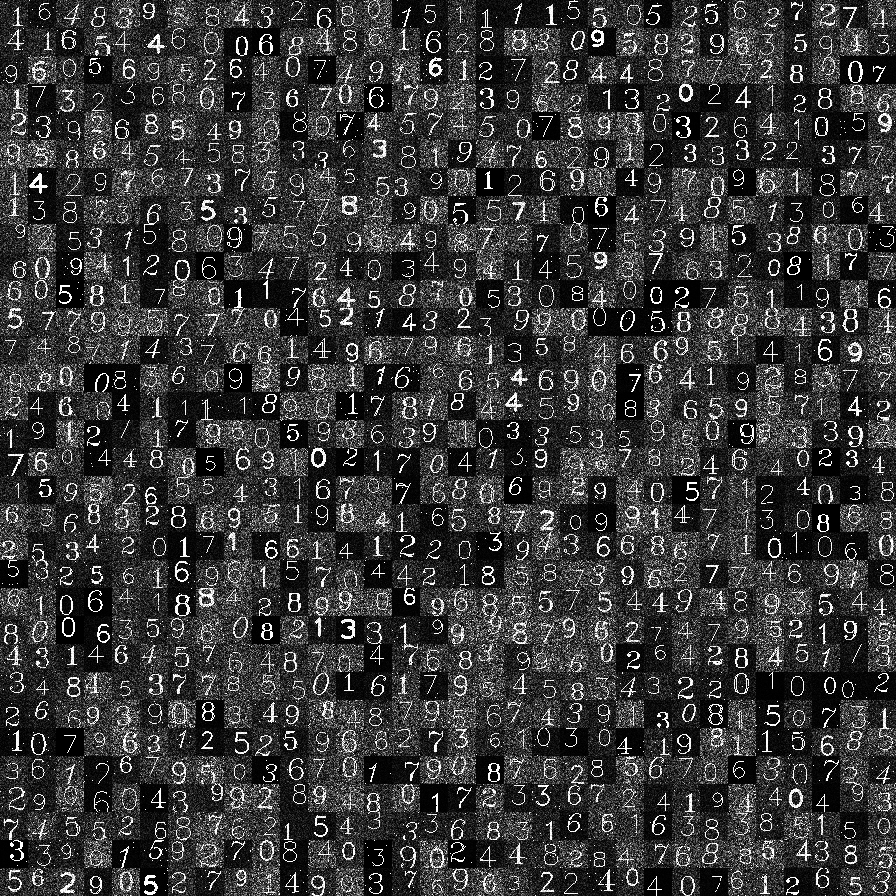
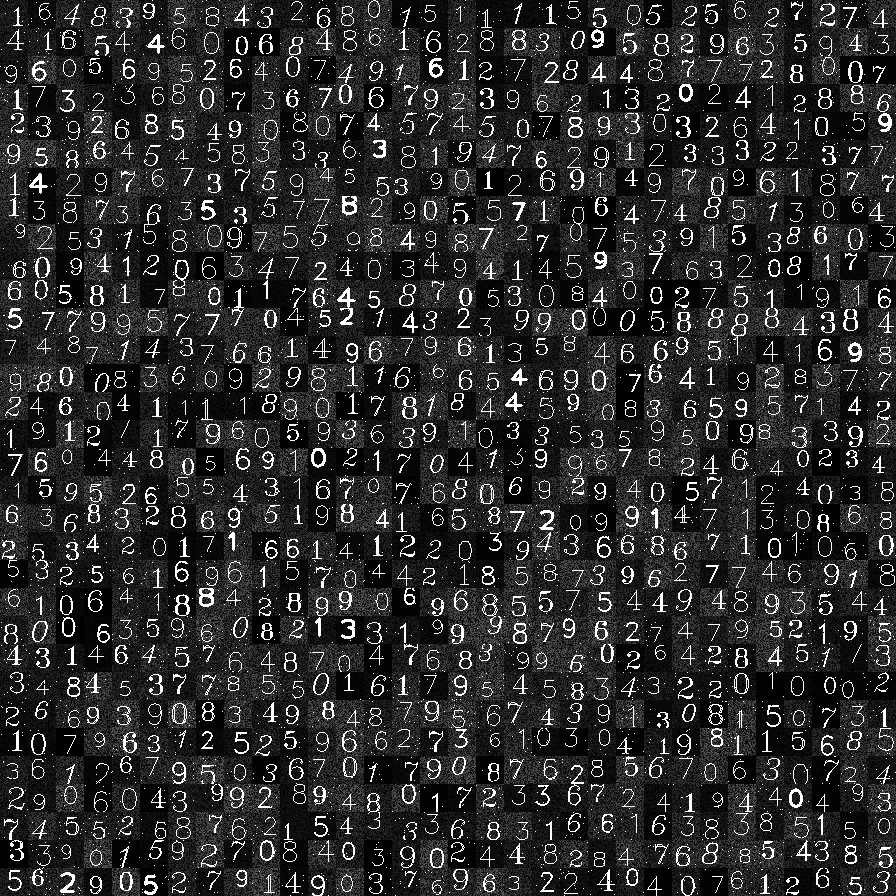
add option to generate a fully compatible MNIST dataset format

diff --git a/mnist_render.py b/mnist_render.py
@@ -92,12 +92,12 @@ def create_label_img(res, inv_colors, min_thick_scale, max_thick_scale,
 
   # Available system (OpenCV) fonts
   fonts = [cv2.FONT_HERSHEY_SIMPLEX,
-  	  	   cv2.FONT_HERSHEY_PLAIN,
-  	  	   cv2.FONT_HERSHEY_DUPLEX,
-  	  	   cv2.FONT_HERSHEY_COMPLEX,
-  	  	   cv2.FONT_HERSHEY_TRIPLEX,
-  	  	   cv2.FONT_HERSHEY_COMPLEX_SMALL,
-  	  	   cv2.FONT_HERSHEY_SCRIPT_SIMPLEX,
+           cv2.FONT_HERSHEY_PLAIN,
+           cv2.FONT_HERSHEY_DUPLEX,
+           cv2.FONT_HERSHEY_COMPLEX,
+           cv2.FONT_HERSHEY_TRIPLEX,
+           cv2.FONT_HERSHEY_COMPLEX_SMALL,
+           cv2.FONT_HERSHEY_SCRIPT_SIMPLEX,
            cv2.FONT_HERSHEY_SCRIPT_COMPLEX]
 
   # Choose a random font and label
@@ -181,7 +181,7 @@ def distort_img(img, distortion, seed):
   np.random.seed(seed)
 
   # Generate a random transformation matrix (identity matrix + some noise)
-  mat = np.identity(3) + 0.001 * distortion * np.random.randn(3, 3)
+  mat = np.identity(3) + 0.001 * distortion * (2 * np.random.rand(3, 3) - 1)
 
   # Apply it
   return cv2.warpPerspective(img, mat, (img.shape[0], img.shape[1]),
@@ -208,11 +208,10 @@ def add_gnoise_img(img, gnoise, seed):
   # Initialize the seed
   if seed < 0:
     seed = int(time.time())
-  cv2.setRNGSeed(seed)
+  np.random.seed(seed)
 
   # Noise image
-  noise = np.zeros(img.shape, img.dtype)
-  cv2.randn(noise, 0, int(gnoise * 0xFF))
+  noise = np.random.rand(*img.shape) * gnoise * 0xFF
 
   # Apply gaussian noise
   return img + noise
@@ -238,11 +237,10 @@ def add_spnoise_img(img, spnoise, seed):
   # Initialize the seed
   if seed < 0:
     seed = int(time.time())
-  cv2.setRNGSeed(seed)
+  np.random.seed(seed)
 
-  # Noise image
-  noise = np.zeros(img.shape, img.dtype)
-  cv2.randu(noise, 0, 0xFF)
+  # Noise image and threshold
+  noise     = np.random.rand(*img.shape) * 0xFF
   threshold = spnoise * 0.1 * 0xFF
 
   # Apply salt-pepper noise
@@ -316,11 +314,25 @@ def render_img(res, inv_colors, min_thick_scale, max_thick_scale,
   return (img8, label)
 
 
+def int32(val):
+  '''
+  Convert an integer value to a 32-bit bitarray.
+  
+  Args:
+    val: integer value
+
+  Returns:
+    32-bit bitarray
+  '''
+
+  return bytearray([(val >> i & 0xFF) for i in (24, 16, 8, 0)])
+
+
 def render(num, res, inv_colors, min_thick_scale, max_thick_scale,
            min_size_scale, max_size_scale, min_distortion, max_distortion,
            min_gaussian_noise, max_gaussian_noise, min_salt_pepper_noise,
            max_salt_pepper_noise, placement, max_it, seed, format, out,
-           concatenate):
+           prefix, concatenate, dataset):
   '''
   Render some images.
 
@@ -343,7 +355,9 @@ def render(num, res, inv_colors, min_thick_scale, max_thick_scale,
     seed                 : random seed (< 0: random value based on system time)
     format               : output file format
     out                  : output directory
+    prefix               : file prefix
     concatenate          : concatenate all the images
+    dataset              : create a dataset
   '''
 
   if format not in img_formats():
@@ -360,11 +374,32 @@ def render(num, res, inv_colors, min_thick_scale, max_thick_scale,
   if num < 1:
     num = 1
 
+  if not prefix:
+    prefix = "mnist"
+
+  if dataset:
+    concatenate = False
+
   if concatenate:
     bigmat_cols = int(math.floor(math.sqrt(num) + 0.5))
     col_imgs    = []
     row_imgs    = []
     shape       = None
+
+  if dataset:
+    image_dataset_path = os.path.join(out, "%s-images-idx3-ubyte" % prefix)
+    label_dataset_path = os.path.join(out, "%s-labels-idx1-ubyte" % prefix)
+    image_dataset_file = open(image_dataset_path, "wb")
+    label_dataset_file = open(label_dataset_path, "wb")
+    # Magic number
+    image_dataset_file.write(int32(0x803))
+    label_dataset_file.write(int32(0x801))
+    # Number of images
+    image_dataset_file.write(int32(num))
+    label_dataset_file.write(int32(num))
+    # Image width and height
+    image_dataset_file.write(int32(res))
+    image_dataset_file.write(int32(res))
 
   for i in range(num):
     # Render the image
@@ -374,6 +409,11 @@ def render(num, res, inv_colors, min_thick_scale, max_thick_scale,
                               min_gaussian_noise, max_gaussian_noise,
                               min_salt_pepper_noise, max_salt_pepper_noise,
                               placement, max_it, seed + i)
+    if dataset:
+      img.tofile(image_dataset_file)
+      label_dataset_file.write(bytearray([label]))
+      continue
+
     if concatenate:
       # Append images to the list of column images
       if not shape:
@@ -387,12 +427,13 @@ def render(num, res, inv_colors, min_thick_scale, max_thick_scale,
         # append to result images to the list of row images
         row_imgs.append(np.hstack(col_imgs))
         col_imgs = []
-    else:
-      # No concatenate: just save the image
-      img_name = "mnist_%06d.%s" % (i, format)
-      img_path = os.path.join(out, img_name)
-      if not cv2.imwrite(img_path, img):
-        raise Exception("Can't create image file '%s'" % img_path)
+      continue
+
+    # Just save the image
+    img_name = "%s_%06d.%s" % (prefix, i, format)
+    img_path = os.path.join(out, img_name)
+    if not cv2.imwrite(img_path, img):
+      raise Exception("Can't create image file '%s'" % img_path)
 
   if concatenate:
     if len(col_imgs):
@@ -403,9 +444,13 @@ def render(num, res, inv_colors, min_thick_scale, max_thick_scale,
     # Stack all the row images
     img = np.vstack(row_imgs)
     # Save the final image
-    img_path = os.path.join(out, "mnist.%s" % format)
+    img_path = os.path.join(out, "%s.%s" % (prefix, format))
     if not cv2.imwrite(img_path, img):
       raise Exception("Can't create image file '%s'" % img_path)
+
+  if dataset:
+    image_dataset_file.close()
+    label_dataset_file.close()
 
 
 def main():
@@ -415,53 +460,56 @@ def main():
 
   # Arguments parser
   parser = argparse.ArgumentParser(description = "MNIST Dataset Renderer.")
-  parser.add_argument("-out"   , help = "Output directory",
-                                 type = str, required = True)
-  parser.add_argument("-num"   , help = "Number of images to render",
-                                 type = int, default = 1)
-  parser.add_argument("-res"   , help = "Resolution of the rendered images",
-                                 type = int, default = 28)
-  parser.add_argument("-inv"   , help = "Inverse the colors",
-                                 action = "store_true")
-  parser.add_argument("-tmin"  , help = "Min thickness scale",
-                                 type = float, default = 0.8)
-  parser.add_argument("-tmax"  , help = "Max thickness scale",
-                                 type = float, default = 1.2)
-  parser.add_argument("-fmin"  , help = "Min font scale",
-                                 type = float, default = 0.6)
-  parser.add_argument("-fmax"  , help = "Max font scale",
-                                 type = float, default = 0.8)
-  parser.add_argument("-gnmin" , help = "Min gaussian noise",
-                                 type = float, default = 0.0)
-  parser.add_argument("-gnmax" , help = "Max gaussian noise",
-                                 type = float, default = 0.0)
-  parser.add_argument("-spnmin", help = "Min salt-pepper noise",
-                                 type = float, default = 0.0)
-  parser.add_argument("-spnmax", help = "Max salt-pepper noise",
-                                 type = float, default = 0.0)
-  parser.add_argument("-dmin"  , help = "Min distortion",
-                                 type = float, default = 0.0)
-  parser.add_argument("-dmax"  , help = "Max distortion",
-                                 type = float, default = 0.0)
-  parser.add_argument("-place" , help = "Placement",
-                                 type = float, default = 0.0)
-  parser.add_argument("-it"    , help = "Max number of iterations",
-                                 type = int, default = 10)
-  parser.add_argument("-seed"  , help = "Random seed",
-                                 type = int, default = -1)
-  parser.add_argument("-format", help = "Image file format (%s)" %
-                                 ", ".join(img_formats()),
-                                 type = str, default = img_default_format())
-  parser.add_argument("-concat", help = "Concatenate all the images into one",
-                                 action = "store_true")
+  parser.add_argument("-out"    , help = "Output directory",
+                                  type = str, required = True)
+  parser.add_argument("-num"    , help = "Number of images to render",
+                                  type = int, default = 1)
+  parser.add_argument("-res"    , help = "Resolution of the rendered images",
+                                  type = int, default = 28)
+  parser.add_argument("-inv"    , help = "Inverse the colors",
+                                  action = "store_true")
+  parser.add_argument("-tmin"   , help = "Min thickness scale",
+                                  type = float, default = 0.8)
+  parser.add_argument("-tmax"   , help = "Max thickness scale",
+                                  type = float, default = 1.2)
+  parser.add_argument("-fmin"   , help = "Min font scale",
+                                  type = float, default = 0.6)
+  parser.add_argument("-fmax"   , help = "Max font scale",
+                                  type = float, default = 0.8)
+  parser.add_argument("-gnmin"  , help = "Min gaussian noise",
+                                  type = float, default = 0.0)
+  parser.add_argument("-gnmax"  , help = "Max gaussian noise",
+                                  type = float, default = 0.0)
+  parser.add_argument("-spnmin" , help = "Min salt-pepper noise",
+                                  type = float, default = 0.0)
+  parser.add_argument("-spnmax" , help = "Max salt-pepper noise",
+                                  type = float, default = 0.0)
+  parser.add_argument("-dmin"   , help = "Min distortion",
+                                  type = float, default = 0.0)
+  parser.add_argument("-dmax"   , help = "Max distortion",
+                                  type = float, default = 0.0)
+  parser.add_argument("-place"  , help = "Placement",
+                                  type = float, default = 0.0)
+  parser.add_argument("-it"     , help = "Max number of iterations",
+                                  type = int, default = 10)
+  parser.add_argument("-seed"   , help = "Random seed",
+                                  type = int, default = -1)
+  parser.add_argument("-format" , help = "Image file format (%s)" %
+                                  ", ".join(img_formats()),
+                                  type = str, default = img_default_format())
+  parser.add_argument("-prefix" , help = "Filename prefix", default = "mnist")
+  parser.add_argument("-concat" , help = "Concatenate all the images into one",
+                                  action = "store_true")
+  parser.add_argument("-dataset", help = "Create a MNIST dataset",
+                                  action = "store_true")
 
   args = parser.parse_args()
 
   # Call the renderer
   render(args.num, args.res, args.inv, args.tmin, args.tmax, args.fmin,
-         args.fmax, args.dmin, args.dmax, args.gnmin, args.gnmax, args.spnmin,
-         args.spnmax, args.place, args.it, args.seed, args.format,
-         args.out, args.concat)
+         args.fmax, args.dmin, args.dmax, args.gnmin, args.gnmax,
+         args.spnmin, args.spnmax, args.place, args.it, args.seed,
+         args.format, args.out, args.prefix, args.concat, args.dataset)
 
 
 if __name__ == "__main__":

diff --git a/README.md b/README.md
@@ -1,24 +1,22 @@
-MNIST Dataset Renderer
-======================
+# MNIST Dataset Renderer
 
+Release 1.0 (October 2016)
 
-### Info
+## Info
 
 This script generates N random single digit images.
 The digit in each image is randomly sized and placed while some distortion and
 noise gets applied.
 
-See: http://yann.lecun.com/exdb/mnist/
-for the original dataset.
+See <a href="http://yann.lecun.com/exdb/mnist" target="_blank">here</a> for
+the original dataset.
 
-
-### Requirements
+## Requirements
 
 This python script is mostly using numpy and opencv.
 Make sure you have both of them.
 
-
-### Usage
+## Usage
 
 To get help, just type:
 ```sh
@@ -30,12 +28,40 @@ Try for example:
 python mnist_render.py -out . -num 1024 -seed 100 -dmax 1.0 -gnmax 0.4 -spnmax 0.1 -concat
 ```
 
-It will generate 1024 random digit images with some distortion, gaussian and
-salt-pepper noise and concatenate all the images into one big image called
-"mnist.png".
+It will generate an image:
+```sh
+mnist.png
+```
+with 1024 random digit images with some distortion, gaussian and salt-pepper
+noise.
 
 Note that the default image resolution is 28x28.
 1024 images (32x32 images matrix) concatenated into one image will have a
 resolution of 896x896 that will look like that:
 
 ![](https://raw.githubusercontent.com/oliviersoares/mnist_render/master/mnist.png)
+
+To generate a fully compatible MNIST dataset (60k training images and 10k
+testing images) you can try:
+```sh
+python mnist_render.py -out . -num 60000 -seed 101 -dmax 1.0 -gnmax 0.4 -spnmax 0.1 -dataset -prefix train
+python mnist_render.py -out . -num 10000 -seed 102 -dmax 1.0 -gnmax 0.4 -spnmax 0.1 -dataset -prefix tk10
+```
+
+It will generate 4 files (2 training files, images and labels, and 2 testing
+files):
+```sh
+train-images-idx3-ubyte
+train-labels-idx1-ubyte
+tk10-images-idx3-ubyte
+tk10-labels-idx1-ubyte
+```
+
+Make sure the seed is different for the training and testing datasets so all
+images are unique (i.e. no training image ends up in the testing set as well).
+
+You can start training this dataset with
+<a href="https://www.tensorflow.org" target="_blank">Tensorflow</a>,
+<a href="http://caffe.berkeleyvision.org" target="_blank">Caffe</a>
+or my own framework
+<a href="https://github.com/oliviersoares/jik" target="_blank">JIK</a>.
